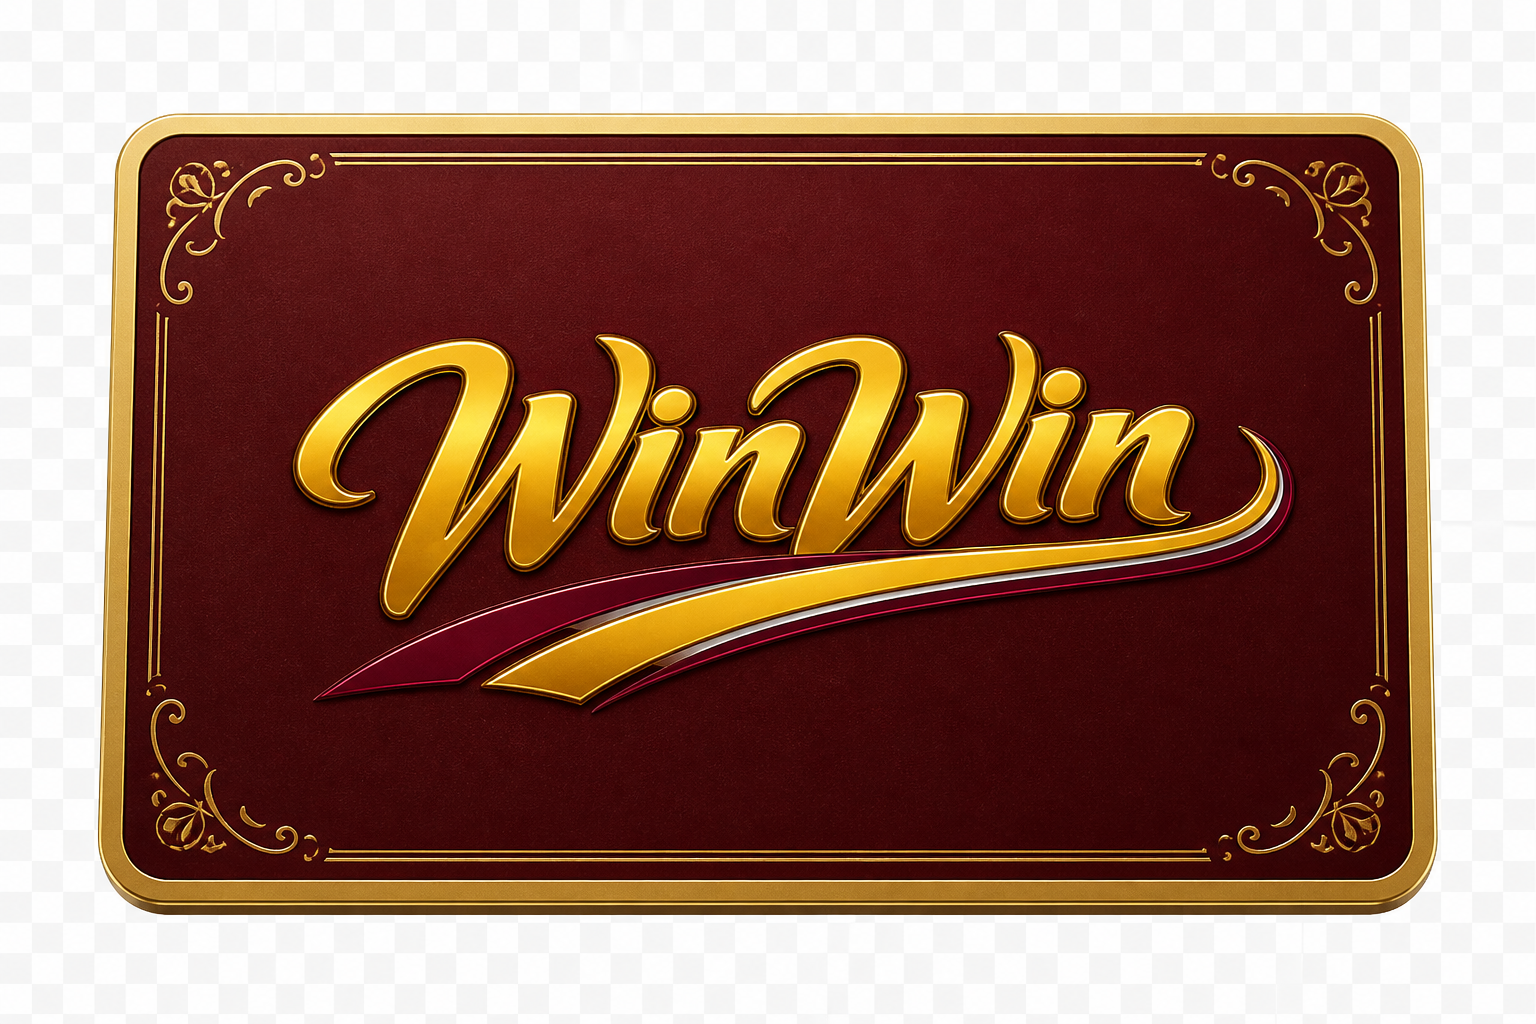
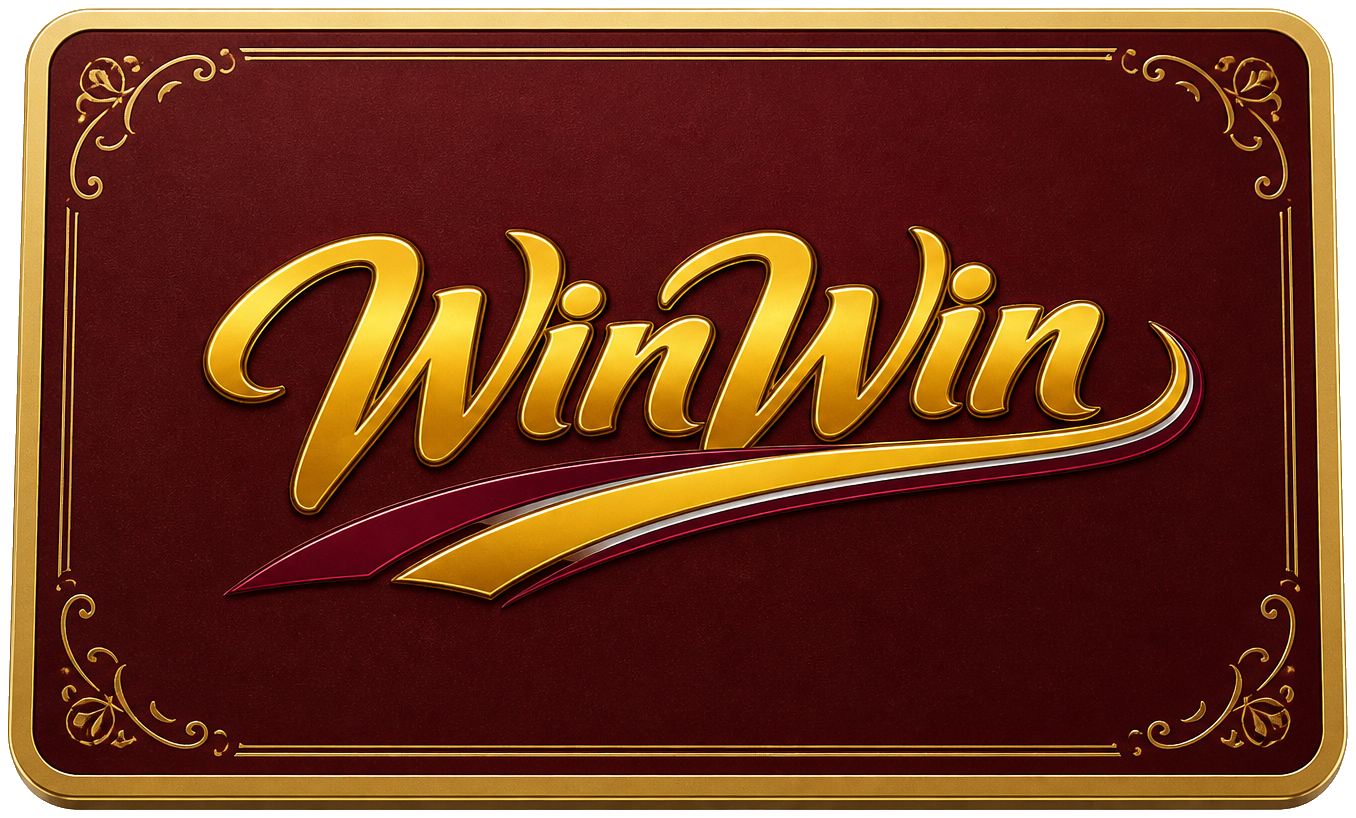
Use burgundy buttons and a transparent hero card cutout.

diff --git a/src/index.css b/src/index.css
@@ -1,4 +1,4 @@
-@import url('https://fonts.googleapis.com/css2?family=Cormorant+Garamond:wght@600;700&family=Great+Vibes&family=Inter:wght@300;400;500;600;700&family=Poppins:wght@300;400;500;600;700;800&display=swap');
+@import url('https://fonts.googleapis.com/css2?family=Cormorant+Garamond:wght@600;700&family=Inter:wght@300;400;500;600;700&family=Poppins:wght@300;400;500;600;700;800&display=swap');
 
 @tailwind base;
 @tailwind components;
@@ -9,10 +9,9 @@
     --font-heading: 'Poppins', sans-serif;
     --font-body: 'Inter', sans-serif;
     --font-display: 'Cormorant Garamond', serif;
-    --font-script: 'Great Vibes', cursive;
 
-    --winwin-burgundy: #74151F;
-    --winwin-burgundy-dark: #591018;
+    --winwin-burgundy: #531516;
+    --winwin-burgundy-dark: #3f0f10;
     --winwin-gold: #C3953C;
     --winwin-gold-dark: #9F7226;
     --winwin-gold-light: #E7C77D;
@@ -21,8 +20,8 @@
     --winwin-text: #25221F;
     --winwin-muted: #756F68;
 
-    --brand: 24 100% 50%;
-    --brand-hover: 22 100% 46%;
+    --brand: 359 60% 20%;
+    --brand-hover: 358 62% 15%;
     --soft-orange: 28 100% 96%;
     --success: 142 64% 32%;
     --warning: 32 95% 40%;
@@ -33,7 +32,7 @@
     --card-foreground: 0 0% 9%;
     --popover: 0 0% 100%;
     --popover-foreground: 0 0% 9%;
-    --primary: 24 100% 50%;
+    --primary: 359 60% 20%;
     --primary-foreground: 0 0% 100%;
     --secondary: 28 100% 96%;
     --secondary-foreground: 0 0% 9%;
@@ -45,8 +44,8 @@
     --destructive-foreground: 0 0% 98%;
     --border: 30 16% 91%;
     --input: 30 16% 91%;
-    --ring: 24 100% 50%;
-    --chart-1: 24 100% 50%;
+    --ring: 359 60% 20%;
+    --chart-1: 359 60% 20%;
     --chart-2: 160 84% 39%;
     --chart-3: 220 70% 50%;
     --chart-4: 43 74% 66%;
@@ -71,7 +70,7 @@
     --card-foreground: 0 0% 9%;
     --popover: 0 0% 100%;
     --popover-foreground: 0 0% 9%;
-    --primary: 24 100% 50%;
+    --primary: 359 60% 20%;
     --primary-foreground: 0 0% 100%;
     --secondary: 28 100% 96%;
     --secondary-foreground: 0 0% 9%;
@@ -83,8 +82,8 @@
     --destructive-foreground: 0 0% 98%;
     --border: 30 16% 91%;
     --input: 30 16% 91%;
-    --ring: 24 100% 50%;
-    --chart-1: 24 100% 50%;
+    --ring: 359 60% 20%;
+    --chart-1: 359 60% 20%;
     --chart-2: 160 84% 39%;
     --chart-3: 220 70% 50%;
     --chart-4: 43 74% 66%;

diff --git a/src/components/home/winwin-hero.css b/src/components/home/winwin-hero.css
@@ -4,9 +4,9 @@
   overflow: hidden;
   isolation: isolate;
   background:
-    radial-gradient(circle at 72% 40%, rgba(211, 166, 76, 0.2), transparent 38%),
-    radial-gradient(circle at 90% 18%, rgba(255, 241, 203, 0.5), transparent 32%),
-    radial-gradient(circle at 12% 80%, rgba(116, 21, 31, 0.05), transparent 36%),
+    radial-gradient(circle at 72% 40%, rgba(211, 166, 76, 0.18), transparent 38%),
+    radial-gradient(circle at 90% 18%, rgba(211, 166, 76, 0.16), transparent 28%),
+    radial-gradient(circle at 12% 80%, rgba(83, 21, 22, 0.05), transparent 36%),
     linear-gradient(120deg, #fbf9f5 0%, #f7efe1 100%);
   min-height: min(820px, calc(100dvh - var(--hero-nav)));
 }
@@ -42,7 +42,7 @@
   align-items: center;
   justify-content: center;
   min-height: 520px;
-  overflow: hidden;
+  overflow: visible;
 }
 
 .hero-benefits {
@@ -77,7 +77,7 @@
 }
 
 .hero-headline .burgundy {
-  color: #74131e;
+  color: #531516;
 }
 
 .hero-description {
@@ -170,7 +170,6 @@
 .hero-decorations,
 .hero-sphere,
 .hero-ring,
-.hero-script,
 .hero-podium {
   pointer-events: none;
 }
@@ -283,8 +282,8 @@
   display: block;
   width: 100%;
   height: auto;
-  aspect-ratio: 16 / 9;
   object-fit: contain;
+  background: transparent;
   filter: drop-shadow(0 35px 55px rgba(72, 54, 28, 0.22)) drop-shadow(0 8px 18px rgba(72, 54, 28, 0.16));
 }
 
@@ -318,22 +317,6 @@
   box-shadow:
     0 18px 30px rgba(92, 64, 22, 0.18),
     inset 0 -12px 18px rgba(92, 59, 16, 0.16);
-}
-
-.hero-script {
-  position: absolute;
-  z-index: 5;
-  right: 4%;
-  top: 10%;
-  margin: 0;
-  max-width: 8ch;
-  font-family: var(--font-script);
-  font-size: clamp(2rem, 3vw, 4rem);
-  line-height: 1.05;
-  color: #a67b31;
-  opacity: 0.72;
-  transform: rotate(-4deg);
-  text-shadow: 0 8px 18px rgba(166, 123, 49, 0.12);
 }
 
 .hero-to-shop {
@@ -463,7 +446,6 @@
     animation-duration: 7s;
   }
 
-  .hero-script,
   .hero-ring-gold-thin,
   .hero-sphere-b,
   .hero-sphere-c {

diff --git a/src/components/CartButton.jsx b/src/components/CartButton.jsx
@@ -10,7 +10,7 @@ export default function CartButton({ className = '' }) {
   return (
     <Button
       type="button"
-      variant="ghost"
+      variant="default"
       size="icon"
       className={cn('relative h-11 w-11 min-h-[44px] min-w-[44px] rounded-[10px]', className)}
       onClick={openCart}
@@ -18,7 +18,7 @@ export default function CartButton({ className = '' }) {
     >
       <ShoppingCart className="h-5 w-5" />
       {count > 0 ? (
-        <span className="absolute -right-0.5 -top-0.5 flex h-[18px] min-w-[18px] items-center justify-center rounded-full bg-primary px-1 text-[11px] font-bold leading-none text-primary-foreground">
+        <span className="absolute -right-0.5 -top-0.5 flex h-[18px] min-w-[18px] items-center justify-center rounded-full bg-[var(--winwin-gold)] px-1 text-[11px] font-bold leading-none text-[var(--winwin-burgundy-dark)]">
           {count > 99 ? '99+' : count}
         </span>
       ) : null}

diff --git a/src/components/home/HeroCardVisual.jsx b/src/components/home/HeroCardVisual.jsx
@@ -24,8 +24,8 @@ export default function HeroCardVisual({ cardImage }) {
             className="hero-card"
             src={src}
             alt="WinWin membership rewards card"
-            width={900}
-            height={500}
+            width={1356}
+            height={818}
             fetchPriority="high"
             decoding="async"
             onError={(event) => {
@@ -39,13 +39,6 @@ export default function HeroCardVisual({ cardImage }) {
           <div className="hero-podium-top" />
         </div>
       </div>
-      <p className="hero-script" aria-hidden="true">
-        Rewards
-        <br />
-        That Value
-        <br />
-        You
-      </p>
     </div>
   );
 }

diff --git a/src/components/CheckoutDialog.jsx b/src/components/CheckoutDialog.jsx
@@ -235,7 +235,7 @@ export default function CheckoutDialog() {
               Save this address for future orders
             </label>
           ) : null}
-          <Button type="submit" className="h-12 w-full rounded-[10px] bg-green-700 text-white hover:bg-green-800" disabled={busy || items.length === 0}>
+          <Button type="submit" className="h-12 w-full rounded-[10px]" disabled={busy || items.length === 0}>
             <MessageCircle className="h-5 w-5" />
             {busy ? 'Submitting...' : 'Submit order'}
           </Button>

diff --git a/src/pages/Cart.jsx b/src/pages/Cart.jsx
@@ -86,7 +86,7 @@ export default function Cart() {
                 <span>Total</span>
                 <span className="tabular-nums">{formatMoney(totals.total)}</span>
               </div>
-              <Button className="h-12 w-full rounded-[10px] bg-green-700 text-base text-white hover:bg-green-800" onClick={openCheckout}>
+              <Button className="h-12 w-full rounded-[10px] text-base" onClick={openCheckout}>
                 <MessageCircle className="h-5 w-5" />
                 Checkout
               </Button>

diff --git a/src/components/CartDrawer.jsx b/src/components/CartDrawer.jsx
@@ -107,7 +107,7 @@ export default function CartDrawer() {
                 <span>Total</span>
                 <span className="tabular-nums">{formatMoney(totals.total)}</span>
               </div>
-              <Button className="h-12 w-full rounded-[10px] bg-green-700 text-white hover:bg-green-800" onClick={openCheckout}>
+              <Button className="h-12 w-full rounded-[10px]" onClick={openCheckout}>
                 <MessageCircle className="h-5 w-5" />
                 Checkout
               </Button>
